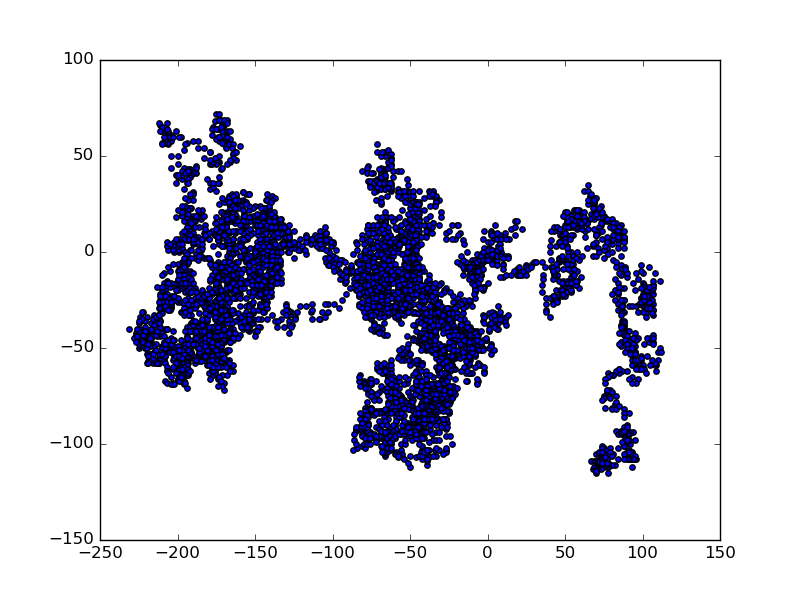
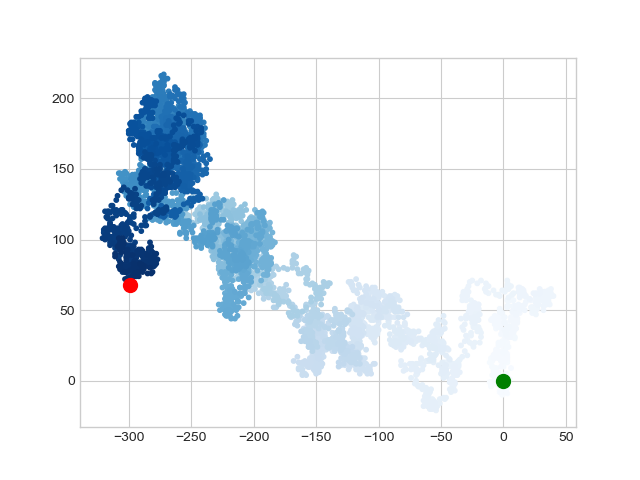
1.Add starting and ending points. 2.Adding Plot Points. 3.Remove axes.(optional)

diff --git a/rw_visual.py b/rw_visual.py
@@ -4,19 +4,27 @@ from random_walk import RandomWalk
 
 while True:
     # Make a random walk.
-    rw = RandomWalk()
+    rw = RandomWalk(50000)
     rw.fill_walk()
 
     # Plot the points in the walk.
-    plt.style.use('seaborn-whitegrid')
+    plt.style.use('seaborn-white')
     # print(plt.style.available)
     fig, ax = plt.subplots()
-    point_numbers = range(rw.num_points)
-    ax.scatter(rw.x_values, rw.y_values, c=point_numbers, cmap=plt.cm.Blues, edgecolors=None, s=10)
+    point_numbers = range(rw.num_points)  # Starting point
+    ax.scatter(rw.x_values, rw.y_values, c=point_numbers, cmap=plt.cm.Blues, edgecolors=None, s=1)  # Ending point
 
     # Emphasize the first and last points.
-    
+    ax.scatter(0, 0, c='green', edgecolors=None, s=10)
+    ax.scatter(rw.x_values[-1], rw.y_values[-1], c='red', edgecolors=None, s=10)
     # plt.savefig('random_walk.png')
+
+    '''
+    # Remove the axes.
+    ax.get_xaxis().set_visible(False)
+    ax.get_yaxis().set_visible(False)
+    '''
+
     plt.show()
 
     keep_running = input("Make another walk? (y/n): ")
